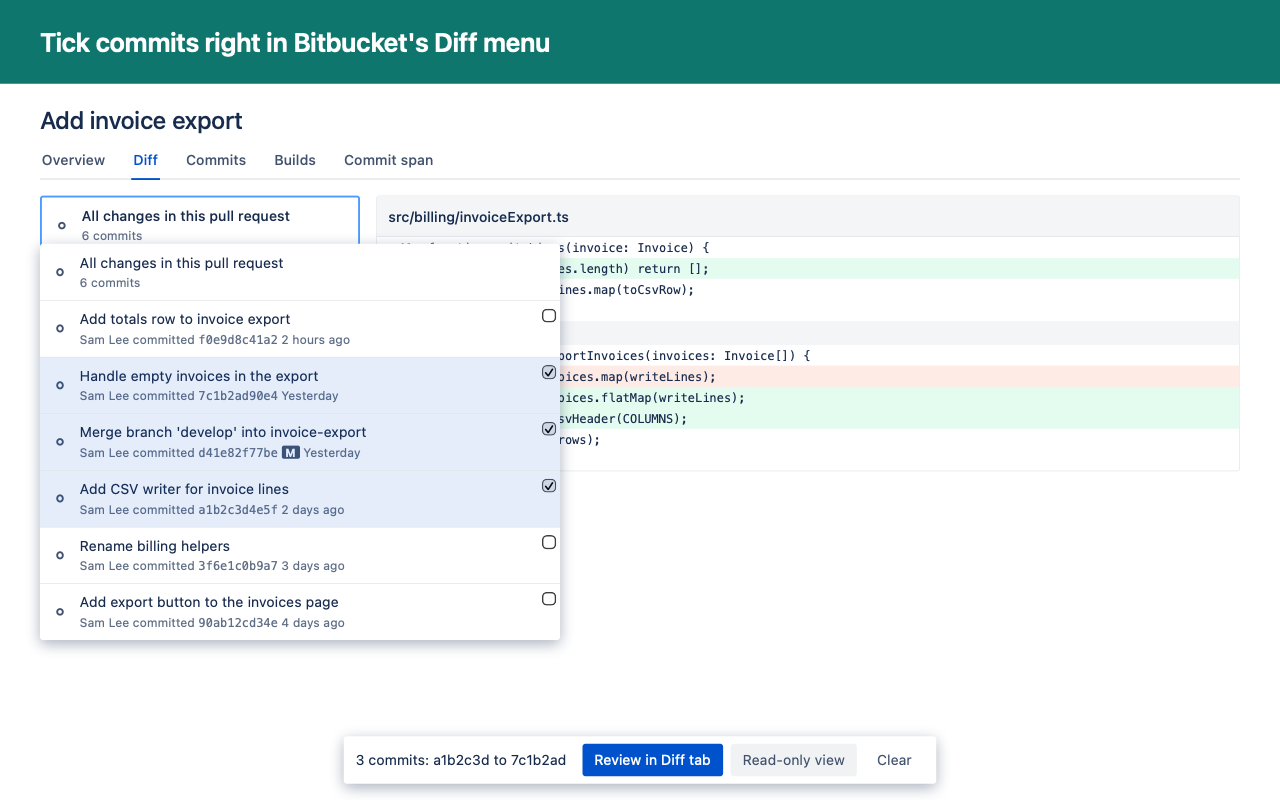
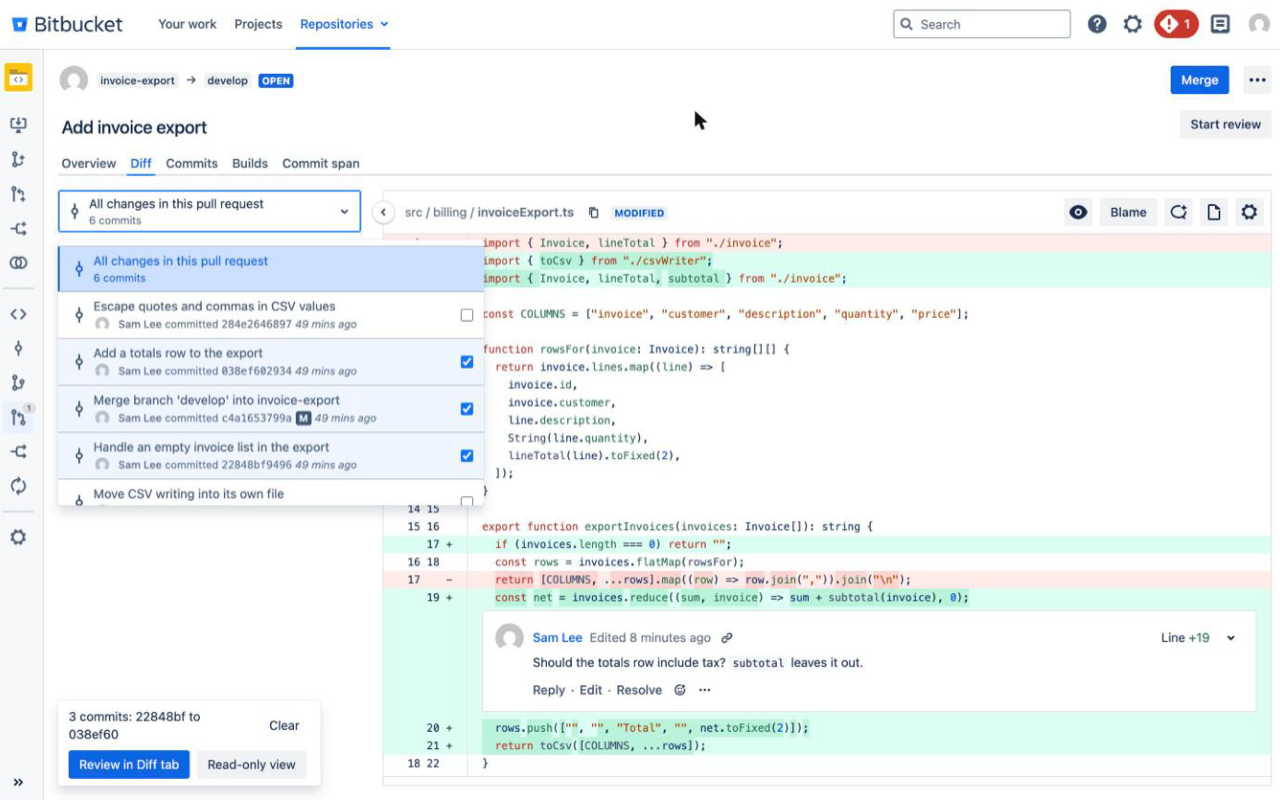
Fix issues found on a real server, and use real screenshots
Tested on Bitbucket Data Center 9.4 with a made-up repo, including a
comment left during a span. Moves the bar off the comment box, centres the
Diff menu checkboxes, fills in the menu's subtitle once Bitbucket does, and
filters the file list during a review in progress.

diff --git a/src/content.js b/src/content.js
@@ -17,8 +17,7 @@
   const MENU_SEARCH_MS = 10000;
   const MENU_PAGE = /\/pull-requests\/\d+\/(diff(?:\/|$)|commits\/[0-9a-f]+)/;
   const MENU_WATCH_MS = 5000;
-  const MENU_BOX_RIGHT = 4;
-  const MENU_BOX_TOP = 8;
+  const MENU_BOX_RIGHT = 12;
   const CHECKBOX_SIZE = 14;
   const CHECKBOX_SPACE = CHECKBOX_SIZE + 10;
 
@@ -57,6 +56,13 @@
     .actions button { flex: none; }
     .action-text { flex: 0 1 auto; min-width: 0; margin-right: auto; padding-right: 8px; }
     @media (max-width: 640px) { .actions { flex-wrap: wrap; } }
+    /* Where comments are written, the bar sits over the file list, so it can't cover
+       Bitbucket's comment box or its buttons. */
+    .bar.side { transform: none; width: 296px; max-width: 296px; }
+    .bar.side .actions { flex-wrap: wrap; }
+    .bar.side .action-text { flex: 1 1 calc(100% - 72px); padding-right: 0; margin-right: 0; }
+    .bar.side .actions button { order: 2; padding: 0 10px; }
+    .bar.side .actions button.subtle { order: 1; }
     .bar { position: fixed; left: 50%; bottom: 16px; z-index: 2147483000; transform: translateX(-50%); display: flex;
       width: max-content; max-width: min(800px, calc(100vw - 32px)); padding: 8px 12px; border-radius: 3px;
       color: var(--ds-text, #172b4d); background: var(--ds-surface-overlay, #fff);
@@ -305,19 +311,20 @@
 
   // A checkbox takes clicks without Bitbucket seeing them, so the row doesn't open that
   // commit and the menu stays open. Clicking the rest of the row still does what it did.
-  // It's overlaid at the end of the subject line, so the row doesn't get any wider.
+  // It's overlaid at the row's right edge, with room kept for it by page.css, so the
+  // row doesn't get any wider.
   function addMenuBox(row, commit) {
-    const box = el('input', { type: 'checkbox', className: 'bpd-check' });
+    const box = el('input', { type: 'checkbox', className: 'bpd-check bpd-menu-check' });
     box.setAttribute('aria-label', `Include commit ${commit.hash.slice(0, 7)} in the review`);
     if (!/relative|absolute|fixed|sticky/.test(getComputedStyle(row).position)) row.style.position = 'relative';
     Object.assign(box.style, {
       position: 'absolute',
       right: `${MENU_BOX_RIGHT}px`,
-      top: `${MENU_BOX_TOP}px`,
+      top: '50%',
       zIndex: '3',
       width: `${CHECKBOX_SIZE}px`,
       height: `${CHECKBOX_SIZE}px`,
-      margin: '0',
+      margin: `-${CHECKBOX_SIZE / 2}px 0 0`,
       cursor: 'pointer',
     });
     for (const type of ['pointerdown', 'pointerup', 'mouseup', 'dblclick']) {
@@ -522,6 +529,10 @@
     hint.hidden = !actions.hidden;
     bar.hidden = !picker.hidden || actions.hidden;
     bar.classList.toggle('warning', Boolean(warning || actionMessage));
+    const side = MENU_PAGE.test(location.pathname);
+    bar.classList.toggle('side', side);
+    const left = side ? `${tab?.parentElement?.getBoundingClientRect().left ?? 16}px` : '';
+    if (bar.style.left !== left) bar.style.left = left;
   }
 
   // Saves what to keep, then reloads into the Diff tab, where the page hook applies it.
@@ -588,11 +599,15 @@
       menuTitle = findText(document.body, (text) => text === ALL_CHANGES);
       menuSubtitle = null;
       if (!menuTitle) return;
+    }
+    // Bitbucket fills in its "6 commits" line after the title, and can redraw it.
+    if (!menuSubtitle?.isConnected) {
+      menuSubtitle = null;
       let box = menuTitle.parentElement;
       for (let i = 0; box && box !== document.body && i < 4 && !menuSubtitle; i++, box = box.parentElement) {
         menuSubtitle = findText(box, (text) => /^\d+ commits?$/.test(text));
       }
-      menuNativeSubtitle = menuSubtitle?.data ?? '';
+      if (menuSubtitle) menuNativeSubtitle = menuSubtitle.data;
     }
     const { title, subtitle } = spanMenuLabel(plan, menuNativeSubtitle.trim());
     if (menuTitle.data !== title) menuTitle.data = title;

diff --git a/test/logic.test.js b/test/logic.test.js
@@ -452,6 +452,14 @@ test("the page hook filters the commits endpoint a real server's Diff tab uses",
   assert.equal(hook.attributes['data-bpd-changes'], 'filtered');
 });
 
+test('the page hook filters the file list for reviewers, but not a chosen range', async () => {
+  const hook = runHook('/projects/K/repos/R/pull-requests/7/diff', planForHook);
+  const unreviewed = await hook.context.window.fetch(`${API_BASE}/changes?changeScope=UNREVIEWED`);
+  assert.equal((await unreviewed.json()).values.length, 1);
+  const range = await hook.context.window.fetch(`${API_BASE}/changes?changeScope=RANGE&sinceId=x&untilId=y`);
+  assert.equal((await range.json()).values.length, 2);
+});
+
 test('the page hook leaves a single commit alone', () => {
   const hook = runHook('/projects/K/repos/R/pull-requests/7/diff', planForHook);
   assert.equal(xhrGet(hook, '/rest/api/latest/projects/K/repos/R/commits/abcdef1234567/diff/a.js?withComments=true').responseText, DIFF_BODY);

diff --git a/src/page.css b/src/page.css
@@ -13,6 +13,13 @@
   background: var(--ds-blanket-selected, rgba(0, 82, 204, 0.1));
 }
 
+/* Keeps a Diff menu row's text and comment count clear of its checkbox, inside the
+   row's own width. If Bitbucket renames this class, long subjects just run closer. */
+.bpd-menu-check ~ * .commit-option-label {
+  box-sizing: border-box;
+  padding-right: 26px !important;
+}
+
 /* The Diff menu's "All changes" row, while a span is what's showing instead. Hovering
    it still looks normal, since choosing it goes back to all changes. */
 [data-bpd-not-current]:not(:hover),

diff --git a/src/pageHook.js b/src/pageHook.js
@@ -49,7 +49,10 @@
       return null;
     }
     if (match[2]) {
-      if ((query.get('changeScope') || 'ALL') !== 'ALL') return null;
+      if (!['ALL', 'UNREVIEWED'].includes(query.get('changeScope') || 'ALL')) {
+        noteSkipped(url);
+        return null;
+      }
     } else if (['COMMIT', 'RANGE'].includes(query.get('diffType'))) {
       noteSkipped(url);
       return null;

diff --git a/README.md b/README.md
@@ -88,29 +88,28 @@ Colours use Atlassian's theme values where the server provides them, so dark mod
 
 ## What has been tested
 
-On a real Data Center server: the tab, read-only view and redesigned controls were reported working and looking good, and the Diff tab's requests turned out to be `commits/{hash}/diff/{path}?since=...`, which the filter handles. Checkboxes were clipped by the sidebar there. **The reserved gap that fixes this hasn't been run in Chrome yet.**
+**On real Bitbucket Data Center 9.4**, in Chrome, on a local test server with a made-up repo:
+
+- Ticking commits in the Diff menu and on the Commits tab, with a span across a real merge from the target branch.
+- The Diff tab narrowed to that span: the file list and diffs were filtered, and the merge's files stayed out.
+- A comment left during a span: Bitbucket stored it as a normal comment on the correct line, and it stayed there after **Show all changes**.
+- Picking a single commit in Bitbucket's own Diff menu: it shows the whole commit, unfiltered, and the span is kept.
+- The Diff menu's label, its **All changes** item no longer looking current during a span, and choosing it to clear the span.
+- The read-only view, with the merge's files hidden and named.
+
+It has also been used on another real Data Center server, whose version isn't recorded here.
 
 Run with `npm test` (no dependencies):
 
 - URL matching, paging, span and tick logic, row matching, merge filtering and the Diff tab filter. The page hook runs against stand-ins for `XMLHttpRequest` and `fetch`, including the requests it must leave alone.
 
-Run with the UI code in jsdom, a simulated DOM with no real layout. Those scripts aren't in this repo:
+**Not tested:**
 
-- **Real git merges:** a real repo with target work merged into a PR, a resolved conflict, a rewritten line and newer target commits, behind a fake API that answers using git. This covers picking commits through to the filtered Diff tab responses. Every line number kept was checked against the real file.
-- **A reviewer's journey:** ticking, the dropdown, keyboard and click-away closing, the read-only view, re-renders, moving between pages and cleaning up, on a made-up page shaped like screenshots of the real one. It checks that nothing is inserted into the page's layout.
-
-**These are unconfirmed until tried on a real server:**
-
-- How everything looks: the copied tab, where the checkboxes sit in the rows, the dropdown and the bar. jsdom doesn't draw anything.
-- That the file list also comes from a request the filter recognises. The bar warns if not.
-- That Bitbucket's viewer accepts a filtered diff and lays out split hunks properly.
-- **That comments land on the right line.** The line numbers and hashes are left unchanged, so they should. Try this on a throwaway PR before relying on it.
-- That the Diff menu's checkboxes, now at the right end of each row's subject line, clear the row's text and comment count. Earlier, at the left, they attached and worked on a real server.
-- That **All changes** stops looking current during a span. A stylesheet rule now forces its tint and left bar off, because removing its "selected" class only changed its text colour.
-- That the Diff menu's **All changes** item clears the span. It's found by its English text. The relabelled menu has been seen working on a real server, and if the text isn't found the menu keeps saying "All changes", while the bar still shows the span.
-- That tinting selected rows with a layer works on the real table without covering anything it shouldn't.
-- That picking a commit in Bitbucket's own Diff menu is left alone.
-- Spans from the first commit on PRs that are already merged.
+- Other Bitbucket versions, or large pull requests.
+- The side-by-side diff view.
+- The corner fallback.
+- Spans from the first commit on pull requests that are already merged.
+- Dark mode.
 
 ## Known limits
 
@@ -120,7 +119,7 @@ Run with the UI code in jsdom, a simulated DOM with no real layout. Those script
 
 ## Publishing
 
-Run `./build.sh` to make the package in `dist/`. `store-assets/LISTING.md` has everything for the Chrome Web Store's dashboard. `node store-assets/render-icons.mjs` redraws the icons, and `node store-assets/render-screenshots.mjs` redraws the screenshots. Neither needs a browser, but the screenshots need macOS.
+Run `./build.sh` to make the package in `dist/`. `store-assets/LISTING.md` has everything for the Chrome Web Store's dashboard. `node store-assets/render-icons.mjs` redraws the icons, with no browser needed. The screenshots are captures from a local test server.
 
 ## Adding another Bitbucket
 

diff --git a/store-assets/LISTING.md b/store-assets/LISTING.md
@@ -74,8 +74,6 @@ The reviewer has no Bitbucket Data Center server to test on, and the extension d
 This extension needs a Bitbucket Data Center server, which is self-hosted, and has no account of its own. It only loads on pages whose address looks like /projects/KEY/repos/REPO/pull-requests/ID.
 
 On a pull request with several commits: open the Diff tab, open the menu above the file list, tick two commits, and click Review in Diff tab. The Diff tab then shows only those commits' changes.
-
-Atlassian offers Data Center trial licences for setting up a test server: https://www.atlassian.com/software/bitbucket/download
 ```
 
 ## Images
@@ -87,11 +85,14 @@ Atlassian offers Data Center trial licences for setting up a test server: https:
 
 The small promo tile and marquee are optional, so there aren't any.
 
-The screenshots show a made-up pull request on a page laid out like Bitbucket's, with the controls redrawn by hand. Run `node store-assets/render-screenshots.mjs` to redraw them, and update that script if the controls change. Real screenshots would need a repo with nothing private in it.
+The screenshots are real captures of the extension running on Bitbucket Data Center 9.4, on a local test server with a made-up repo and pull request. Upload them in this order:
+
+1. `screenshot-1.png`: ticking commits in Bitbucket's Diff menu.
+2. `screenshot-2.png`: the Diff tab narrowed to those commits, with a comment on a line.
+3. `screenshot-3.png`: ticking commits on the Commits tab.
 
 ## Before you submit
 
-1. Try a comment on a throwaway pull request, with a span active, and check it's on the right line after **Show all changes**.
-2. Check the privacy policy is live at the URL above (GitHub Pages, serving `docs/` from `main`).
-3. Run `./build.sh` and upload the zip from `dist/`.
-4. Choose visibility: Public, or Unlisted (only people with the link).
+1. Check the privacy policy is live at the URL above (GitHub Pages, serving `docs/` from `main`).
+2. Run `./build.sh` and upload the zip from `dist/`.
+3. Choose visibility: Public, or Unlisted (only people with the link).
